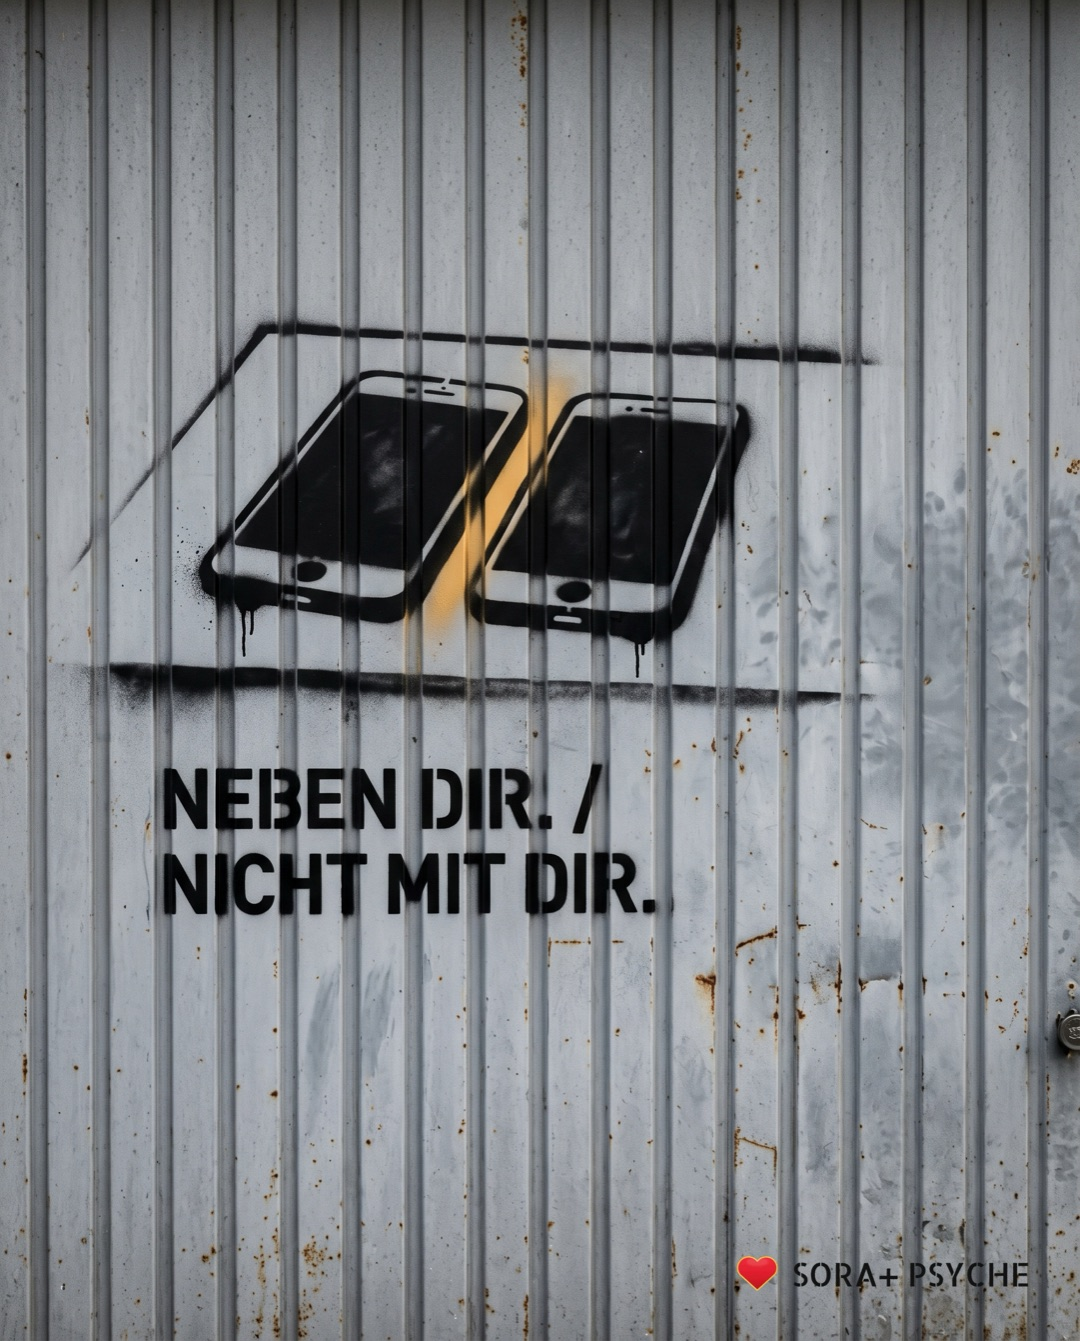
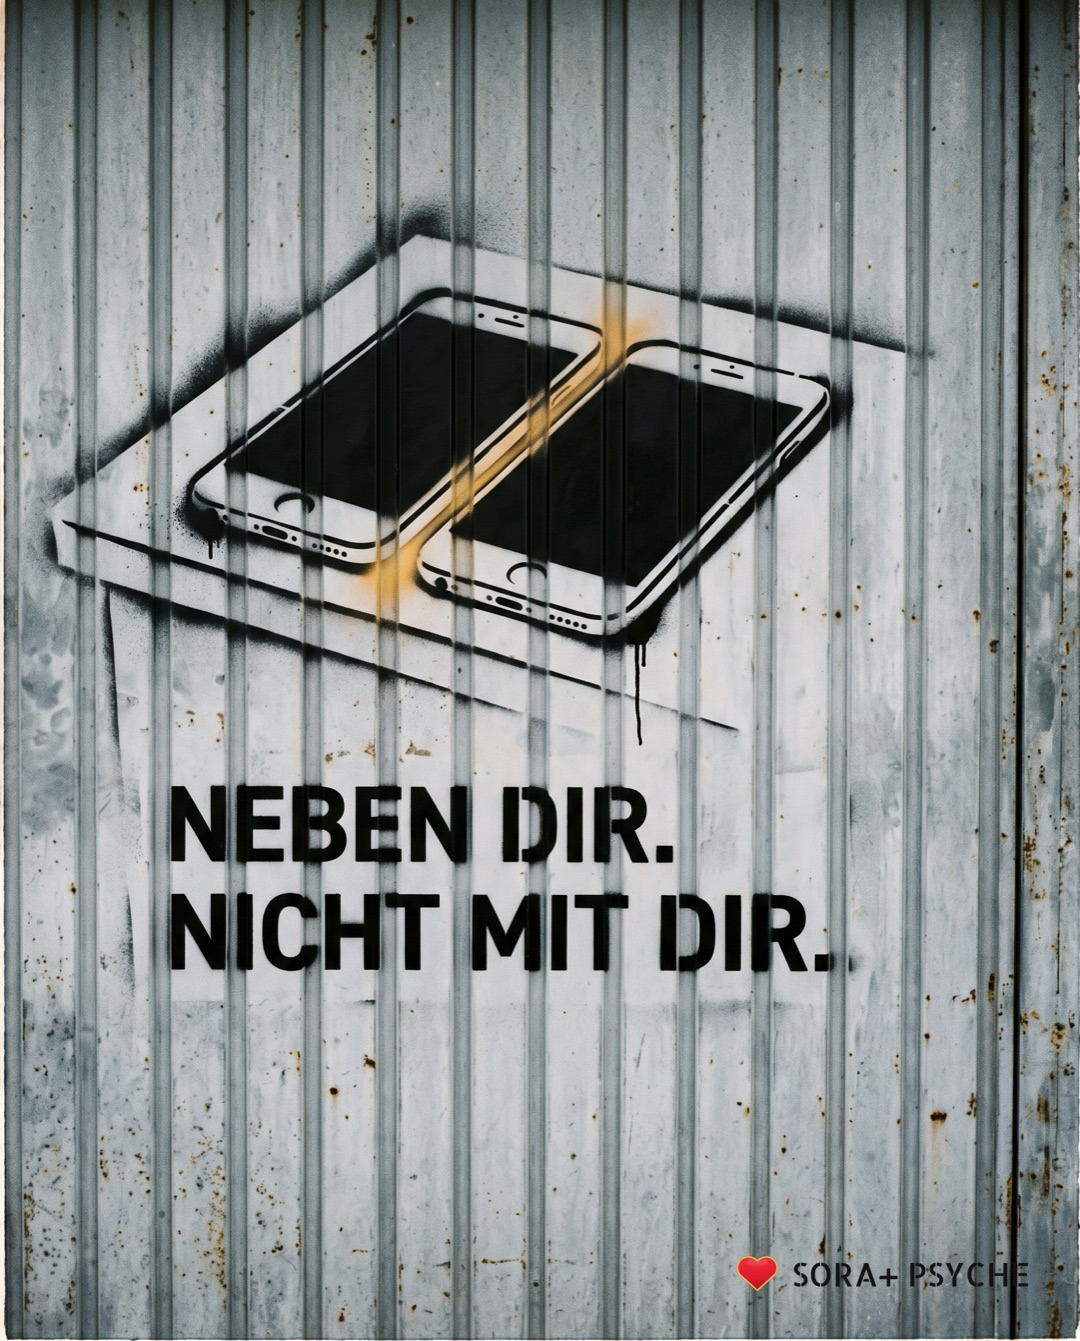
W-119: финальная версия без слэша

diff --git a/wandsaetze.html b/wandsaetze.html
@@ -1193,7 +1193,7 @@
       </div>
     </li>
     <li class="ws-item" id="W-058">
-      <img src="/assets/img/wandsaetze/W-058.jpg" alt="Wand mit schwarzem Stencil, Signatur SORA+ PSYCHE: „GESCHLAFEN. NUR NICHT NACHTS.“" width="1077" height="1341" loading="lazy" decoding="async">
+      <img src="/assets/img/wandsaetze/W-058.jpg" alt="Wand mit schwarzem Stencil, Signatur SORA+ PSYCHE: „GESCHLAFEN. NUR NICHT NACHTS.“" width="1080" height="1341" loading="lazy" decoding="async">
       <div class="ws-body">
         <p class="ws-phrase">GESCHLAFEN. NUR NICHT NACHTS.</p>
         <p class="ws-meta">W-058 · Schlaf / Nacht (сон, который не восстанавливает)</p>
@@ -1592,7 +1592,7 @@
       </div>
     </li>
     <li class="ws-item" id="W-120">
-      <img src="/assets/img/wandsaetze/W-120.jpg" alt="Wand mit schwarzem Stencil, Signatur SORA+ PSYCHE: „ICH FRAGTE. / ES BLIEB STILL.“" width="1071" height="1341" loading="lazy" decoding="async">
+      <img src="/assets/img/wandsaetze/W-120.jpg" alt="Wand mit schwarzem Stencil, Signatur SORA+ PSYCHE: „ICH FRAGTE. / ES BLIEB STILL.“" width="1080" height="1341" loading="lazy" decoding="async">
       <div class="ws-body">
         <p class="ws-phrase">ICH FRAGTE. / ES BLIEB STILL.</p>
         <p class="ws-meta">W-120 · Verbunden und allein (рядом, но не вместе)</p>
